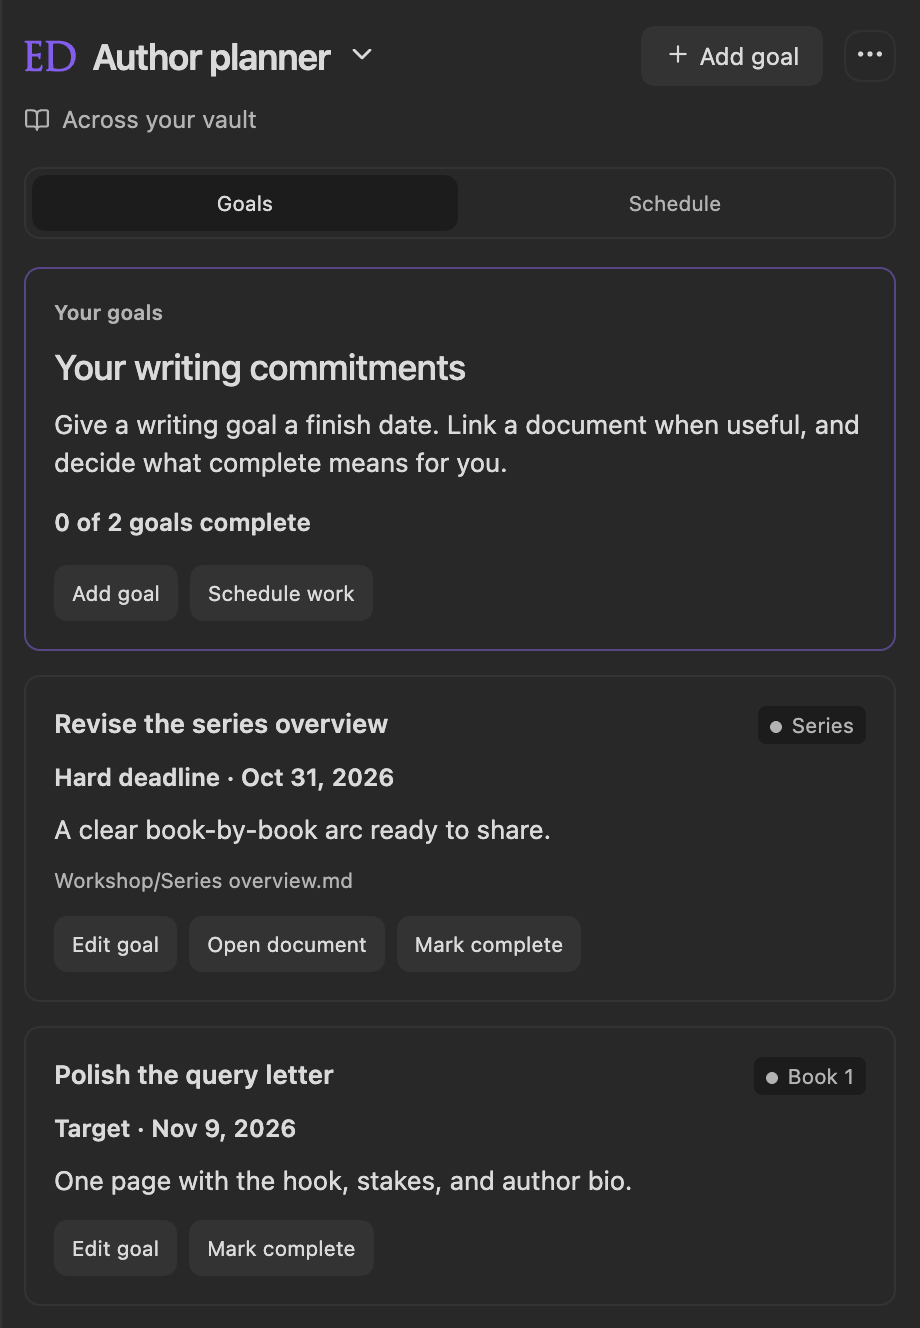
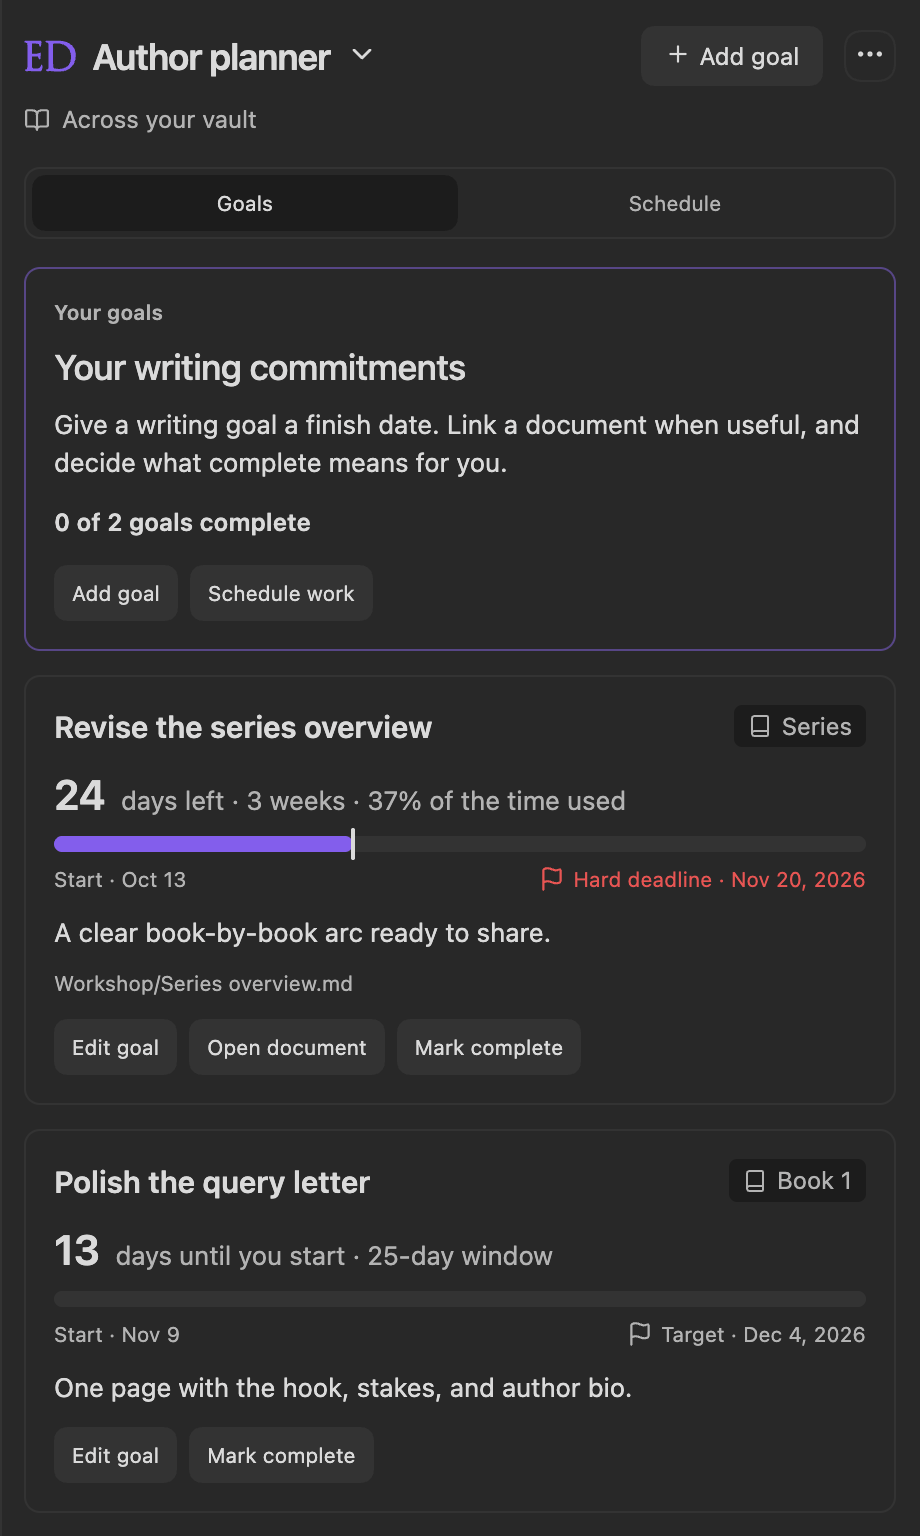
Document goal start dates and retake the author planner screenshot
Goal cards now count down to their start or deadline and, with a start
date, show how much of the time window has passed. The Author Planner page
explains the new Start date field, the countdown, and when the bar turns
amber or red, and says plainly that the bar measures time rather than how
much of the writing is done.

The screenshot is retaken from a rebuilt demo vault so it shows one goal
under way and one not yet started. It runs 33 px past the usual crop limit
because a single card could not show both states; the provenance note
records why.

diff --git a/wiki/Author-Planner.md b/wiki/Author-Planner.md
@@ -1,14 +1,17 @@
 Give your own writing goals a target date and room in your working week. Run **Open author planner**, or choose **Author planner** from the panel’s mode selector. This plan spans the vault and stays separate from each book’s [Editor Engagement](Editor-Engagement).
 
-<p align="center"><img src="images/panel-author-planner.png" alt="Author planner showing writing goals, completion descriptions, book labels, and target dates" width="460"></p>
+<p align="center"><img src="images/panel-author-planner.png" alt="Author planner showing a goal with 24 days left and a bar of how much of its time has passed, and a goal 13 days from its start date" width="460"></p>
 
 ## Add a writing goal
 
 1. Choose **Add goal** and enter a title.
 2. Describe **What does complete mean?** in your own terms: a revised chapter, a finished query letter, or another outcome.
 3. Set a **Target date**. Check **This is a hard deadline** when scheduling must finish by that date.
-4. Optionally add a book label, choose a vault document, and enter low/high minutes under **Effort estimate**.
-5. Save. **Edit goal** lets you change these details later.
+4. Optionally set a **Start date**: the day you plan to begin. It must fall on or before the target date.
+5. Optionally add a book label, choose a vault document, and enter low/high minutes under **Effort estimate**.
+6. Save. **Edit goal** lets you change these details later.
+
+Each goal card counts down to its date. Before a goal’s start date, it shows the days until you start and the length of the window; after that, the days left, plus the weeks when at least two weeks remain. A goal with a start date also shows a bar of how much of the time from start to deadline has passed. The bar measures time, not how much of the writing is done. It turns amber in the last 14 days and red when the goal is due today or past due, and a hard deadline’s date is shown in red.
 
 A document link opens the working file. Linking or editing it never completes the goal. **Mark complete** records your decision; **Reopen goal** brings it back. **Remove goal** removes that goal and its planned sessions while preserving the document.
 

diff --git a/README.md b/README.md
@@ -20,7 +20,7 @@ Editorialist turns outside feedback into a controlled revision workflow inside O
 
 Version **3.0.0** adds two planning surfaces. **Editor engagement** keeps an editor’s agreed dates, personal milestones, tasks, optional document references, and activity history together. **Author planner** gives your own writing goals a vault-wide home, with target dates, hard deadlines, document links, and capacity scheduling. Goals can optionally share publishing-stage target dates with Radial Timeline.
 
-<p align="center"><img src="wiki/images/panel-editor-engagement.png" alt="Editor engagement overview with the editor, a countdown to the agreed start date, and Next up showing the first queued task and the next milestone" width="460"> <img src="wiki/images/panel-author-planner.png" alt="Author planner with personal writing goals and target dates" width="460"></p>
+<p align="center"><img src="wiki/images/panel-editor-engagement.png" alt="Editor engagement overview with the editor, a countdown to the agreed start date, and Next up showing the first queued task and the next milestone" width="460"> <img src="wiki/images/panel-author-planner.png" alt="Author planner with two writing goals, each counting down to its date, one partway through its time window" width="460"></p>
 
 Read the [user manual](https://github.com/EricRhysTaylor/Editorialist/wiki), including [Editor Engagement](https://github.com/EricRhysTaylor/Editorialist/wiki/Editor-Engagement) and [Author Planner](https://github.com/EricRhysTaylor/Editorialist/wiki/Author-Planner).
 

diff --git a/docs/engineering/WIKI-SCREENSHOTS.md b/docs/engineering/WIKI-SCREENSHOTS.md
@@ -127,3 +127,22 @@ Kept: `panel-author-planner.png` (its header label is unchanged), the schedule
 previews, `panel-import.png` (the launcher's opening screen is unchanged; only
 its paste preview names the manuscript), the Core and Contributors settings tabs,
 and the toolbar and cut-file close-ups.
+
+## 3.0.6 goal-card refresh — October 27, 2026
+
+Captured from commit `4d0d5bd` (the 3.0.6 candidate) in desktop Obsidian
+1.14.5, dark theme, 2x device scale, 460 CSS-pixel right sidebar, pointer off
+the panel. The `Editorialist Release Demo` vault was rebuilt from scratch with
+synthetic scenes in `Book/` and `Workshop/Series overview.md`; the author goals
+come from the 3.0.0 fixture, with start dates added so the new cards have a
+time window to show. No Author-vault content was used.
+
+- `panel-author-planner.png` — "Revise the series overview" (started Oct 13,
+  hard deadline Nov 20: 24 days left, 37% of the time used) and "Polish the
+  query letter" (starts Nov 9, target Dec 4: 13 days until you start). The crop
+  ends 12 px below the second goal card and is 768 CSS pixels tall, past the
+  usual 735 limit: the countdown and bar make each card taller, and one card
+  alone could not show both a goal under way and one not yet started.
+
+Also checked in light and dark at 300 and 460 CSS pixels; the countdown wraps
+cleanly at 300 with no horizontal overflow.
